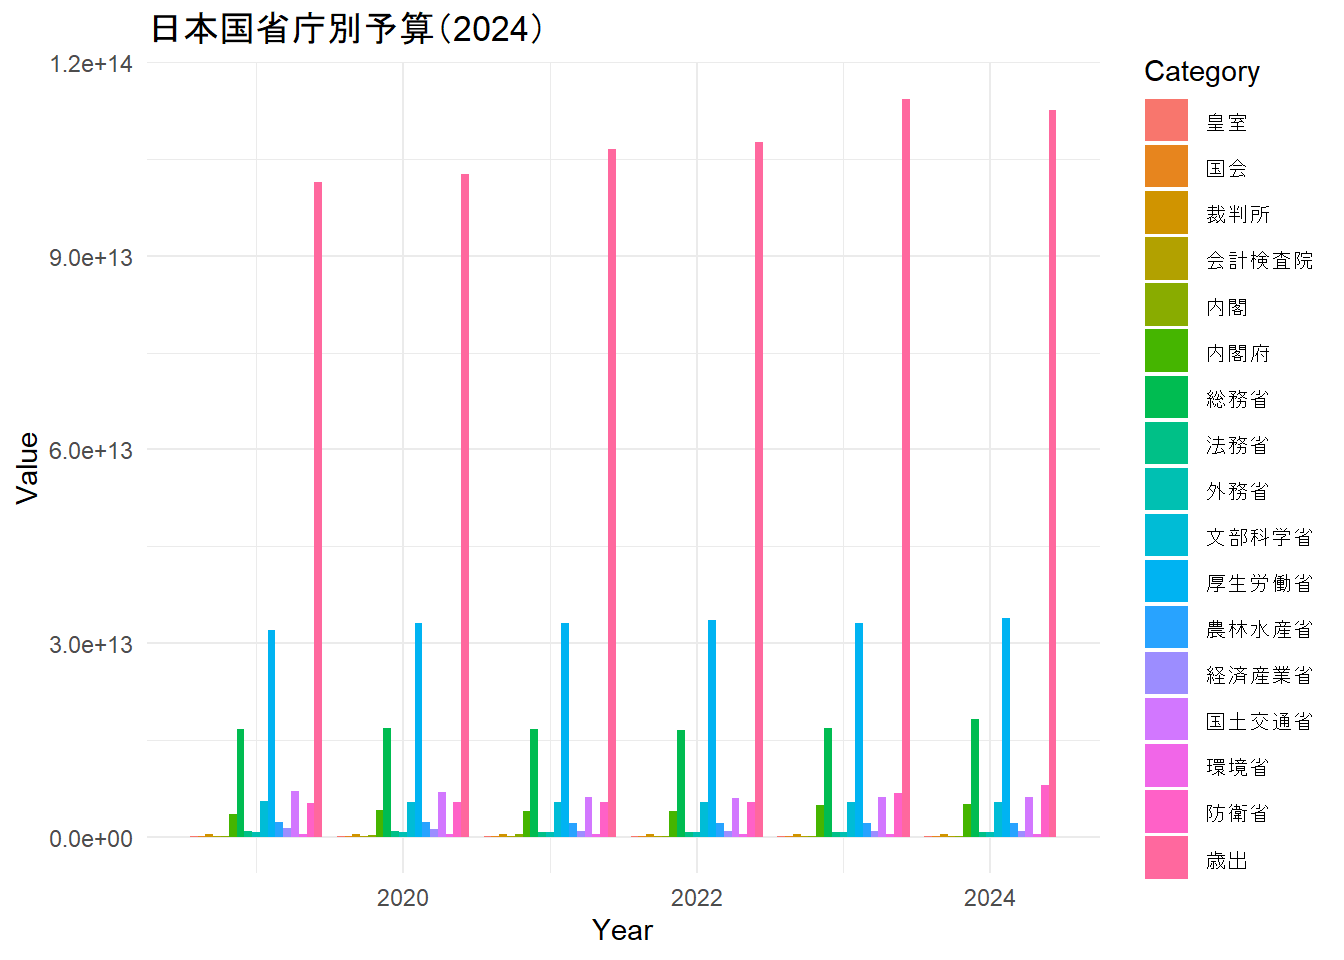
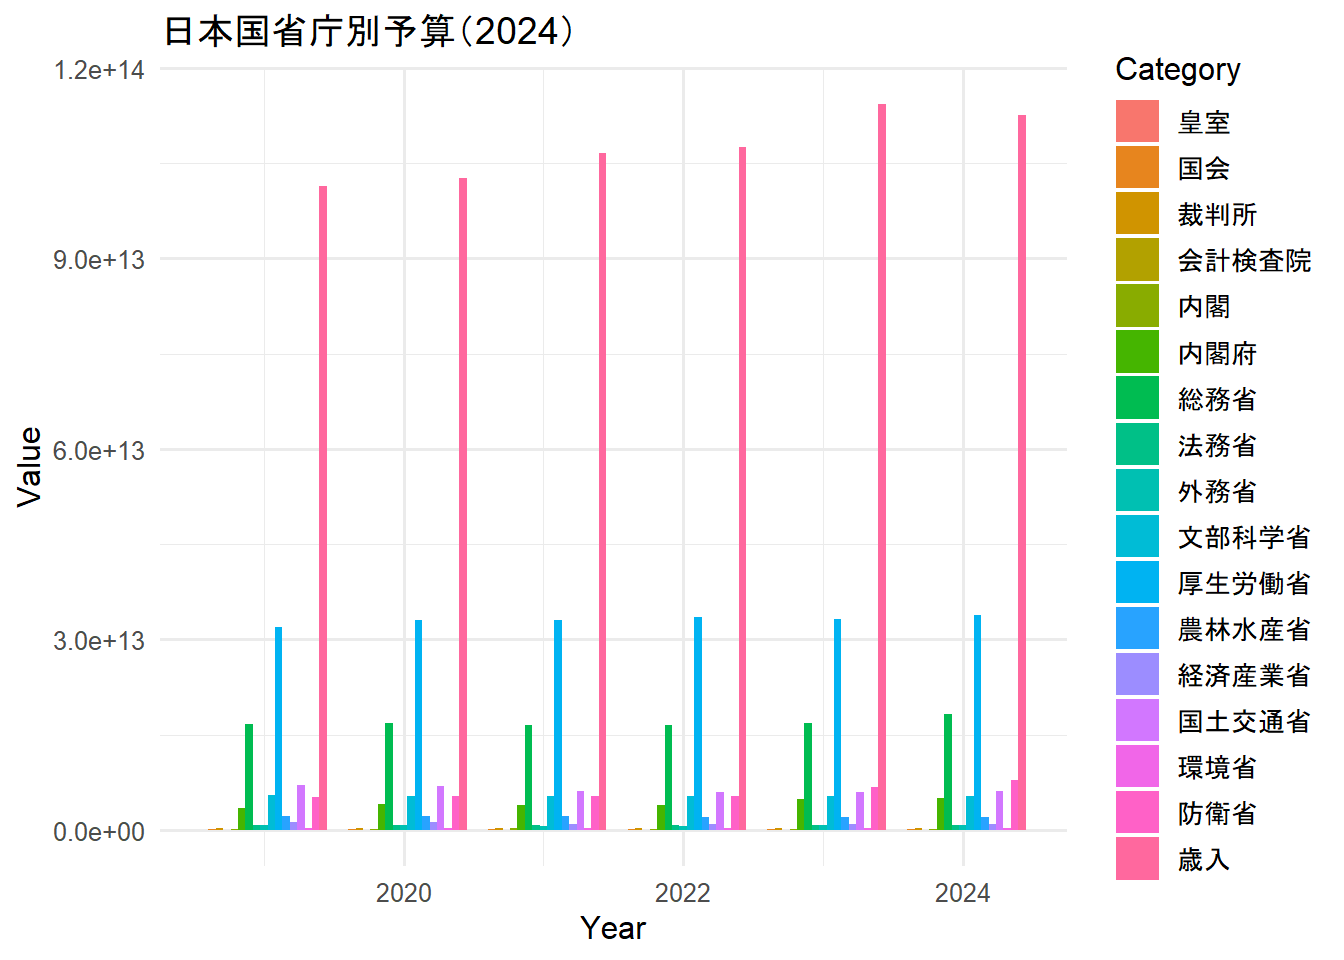
LineGraph

diff --git a/docs/ministry_expenses.html b/docs/ministry_expenses.html
@@ -1129,12 +1129,13 @@ The following object is masked from 'package:tidyr':
 <span id="cb42-17"><a href="#cb42-17" aria-hidden="true" tabindex="-1"></a>                           <span class="st">"MLIT"</span>           <span class="ot">=</span> <span class="st">"国土交通省"</span>,</span>
 <span id="cb42-18"><a href="#cb42-18" aria-hidden="true" tabindex="-1"></a>                           <span class="st">"MOE"</span>            <span class="ot">=</span> <span class="st">"環境省"</span>,</span>
 <span id="cb42-19"><a href="#cb42-19" aria-hidden="true" tabindex="-1"></a>                           <span class="st">"MOD"</span>            <span class="ot">=</span> <span class="st">"防衛省"</span>,</span>
-<span id="cb42-20"><a href="#cb42-20" aria-hidden="true" tabindex="-1"></a>                           <span class="st">"revenue"</span>        <span class="ot">=</span> <span class="st">"歳出"</span>))</span>
+<span id="cb42-20"><a href="#cb42-20" aria-hidden="true" tabindex="-1"></a>                           <span class="st">"revenue"</span>        <span class="ot">=</span> <span class="st">"歳入"</span>))</span>
 <span id="cb42-21"><a href="#cb42-21" aria-hidden="true" tabindex="-1"></a></span>
-<span id="cb42-22"><a href="#cb42-22" aria-hidden="true" tabindex="-1"></a><span class="fu">ggplot</span>(Japan_df_long, <span class="fu">aes</span>(<span class="at">x =</span> Year, <span class="at">y =</span> Value, <span class="at">fill =</span> Category)) <span class="sc">+</span></span>
-<span id="cb42-23"><a href="#cb42-23" aria-hidden="true" tabindex="-1"></a>  <span class="fu">geom_bar</span>(<span class="at">stat =</span> <span class="st">"identity"</span>, <span class="at">position =</span> <span class="st">"dodge"</span>) <span class="sc">+</span></span>
-<span id="cb42-24"><a href="#cb42-24" aria-hidden="true" tabindex="-1"></a>  <span class="fu">labs</span>(<span class="at">title =</span> <span class="st">"日本国省庁別予算（2024）"</span>, <span class="at">x =</span> <span class="st">"Year"</span>, <span class="at">y =</span> <span class="st">"Value"</span>) <span class="sc">+</span></span>
-<span id="cb42-25"><a href="#cb42-25" aria-hidden="true" tabindex="-1"></a>  <span class="fu">theme_minimal</span>()</span></code><button title="Copy to Clipboard" class="code-copy-button"><i class="bi"></i></button></pre></div>
+<span id="cb42-22"><a href="#cb42-22" aria-hidden="true" tabindex="-1"></a><span class="fu">options</span>(<span class="at">repr.plot.width =</span> <span class="dv">16</span>,<span class="at">repr.plot.height =</span> <span class="dv">9</span>)</span>
+<span id="cb42-23"><a href="#cb42-23" aria-hidden="true" tabindex="-1"></a><span class="fu">ggplot</span>(Japan_df_long, <span class="fu">aes</span>(<span class="at">x =</span> Year, <span class="at">y =</span> Value, <span class="at">fill =</span> Category)) <span class="sc">+</span></span>
+<span id="cb42-24"><a href="#cb42-24" aria-hidden="true" tabindex="-1"></a>  <span class="fu">geom_bar</span>(<span class="at">stat =</span> <span class="st">"identity"</span>, <span class="at">position =</span> <span class="st">"dodge"</span>) <span class="sc">+</span></span>
+<span id="cb42-25"><a href="#cb42-25" aria-hidden="true" tabindex="-1"></a>  <span class="fu">labs</span>(<span class="at">title =</span> <span class="st">"日本国省庁別予算（2024）"</span>, <span class="at">x =</span> <span class="st">"Year"</span>, <span class="at">y =</span> <span class="st">"Value"</span>) <span class="sc">+</span></span>
+<span id="cb42-26"><a href="#cb42-26" aria-hidden="true" tabindex="-1"></a>  <span class="fu">theme_minimal</span>(<span class="at">base_size =</span> <span class="dv">12</span>)</span></code><button title="Copy to Clipboard" class="code-copy-button"><i class="bi"></i></button></pre></div>
 <div class="cell-output-display">
 <div>
 <figure class="figure">
